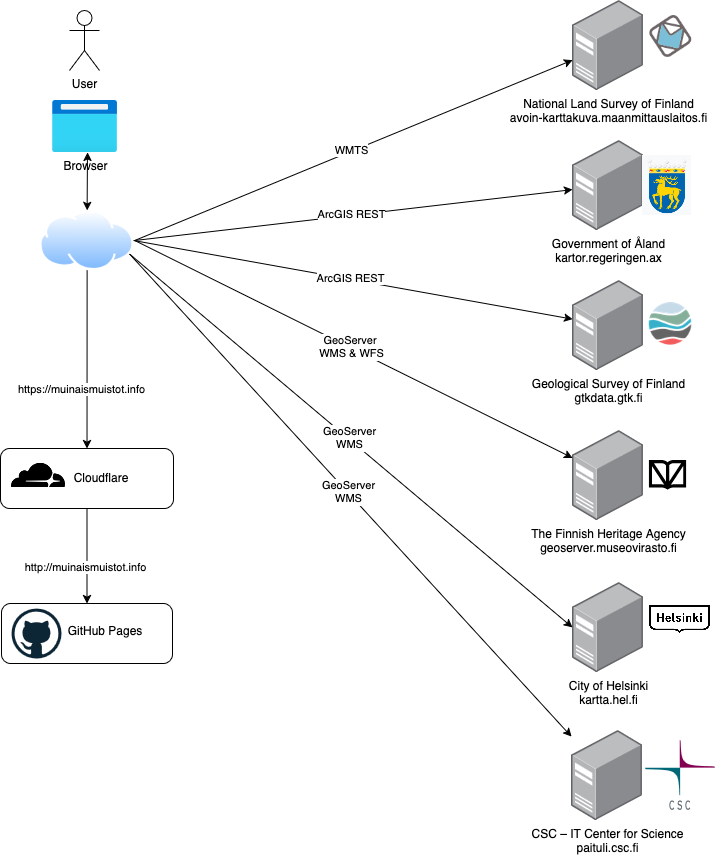
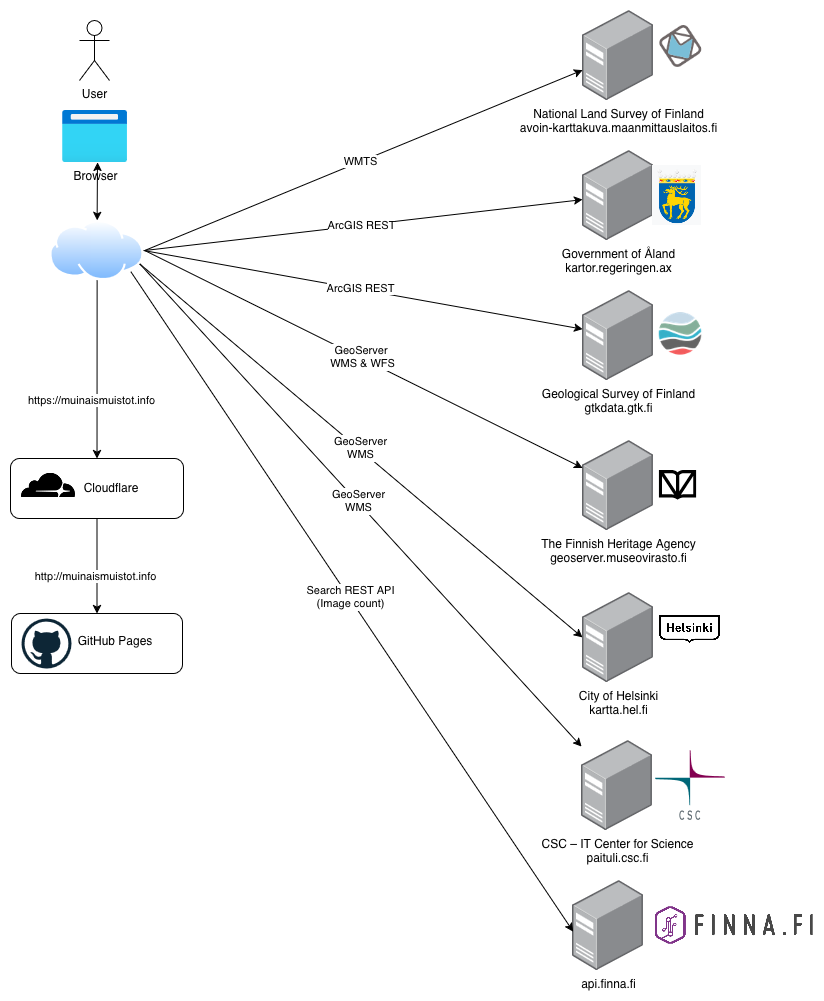
Lisätään valokuvien linkitys Finna.fi sivustolle

diff --git a/src/ui/component/feature/component/FinnaImagesField.tsx b/src/ui/component/feature/component/FinnaImagesField.tsx
@@ -1,0 +1,63 @@
+import React, { Suspense, use, useMemo } from "react"
+import { Trans, useTranslation } from "react-i18next"
+import { Alert, Col, Row, Spinner } from "react-bootstrap"
+
+type FinnaResult = { resultCount: number }
+
+const fetchFinnaImageCount = async (mjtunnus: number): Promise<FinnaResult> => {
+  const response = await fetch(
+    `https://api.finna.fi/api/v1/search?field[]=resultCount&filter[]=geographic_id_str_mv:"(mjr)${mjtunnus}"&filter[]=online_boolean:"1"&filter[]=format:"0/Image/"`
+  )
+  return response.json() as Promise<FinnaResult>
+}
+
+interface FinnaImagesLinkProps {
+  finnaFetchPromise: Promise<FinnaResult>
+  mjtunnus: number
+}
+
+const FinnaImagesLink: React.FC<FinnaImagesLinkProps> = ({
+  finnaFetchPromise,
+  mjtunnus
+}) => {
+  const { resultCount } = use(finnaFetchPromise)
+  const finnaUIUrl = `https://finna.fi/Search/Results?lookfor=geographic_id_str_mv:"(mjr)${mjtunnus}"&filter[]=online_boolean:"1"&filter[]=format:"0/Image/"`
+
+  if (resultCount === 0) {
+    return null
+  }
+
+  return (
+    <Row>
+      <Col>
+        <Alert variant="light">
+          <Trans
+            i18nKey="details.field.finnaText"
+            values={{ resultCount, finnaUIUrl }}
+            components={{ a: <Alert.Link /> }}
+          />
+        </Alert>
+      </Col>
+    </Row>
+  )
+}
+
+interface Props {
+  mjtunnus: number
+}
+
+export const FinnaImagesField: React.FC<Props> = ({ mjtunnus }) => {
+  const finnaFetchPromise = useMemo(
+    () => fetchFinnaImageCount(mjtunnus),
+    [mjtunnus]
+  )
+
+  return (
+    <Suspense>
+      <FinnaImagesLink
+        finnaFetchPromise={finnaFetchPromise}
+        mjtunnus={mjtunnus}
+      />
+    </Suspense>
+  )
+}

diff --git a/src/ui/component/feature/panel/MuinaisjaannosPistePanel.tsx b/src/ui/component/feature/panel/MuinaisjaannosPistePanel.tsx
@@ -28,6 +28,7 @@ import { List } from "../component/List"
 import { MaisemanMuistiField } from "../component/MaisemanMuistiField"
 import { MuseovirastoLink } from "../component/MuseovirastoLink"
 import { MuinaisjäännösTimespanLabel } from "../component/TimespanLabel"
+import { FinnaImagesField } from "../component/FinnaImagesField"
 
 interface Props extends FeatureCollapsePanelCommonExternalProps {
   feature: MuinaisjäännörekisteriPisteFeature
@@ -119,6 +120,7 @@ export const MuinaisjaannosPistePanel: React.FC<Props> = ({
 
         <MuseovirastoLink feature={feature} />
 
+        {commonProps.isOpen && <FinnaImagesField mjtunnus={mjtunnus} />}
         {commonProps.isOpen && <EmbeddedModels models={feature.models} />}
       </Form>
     </MapFeatureCollapsePanel>